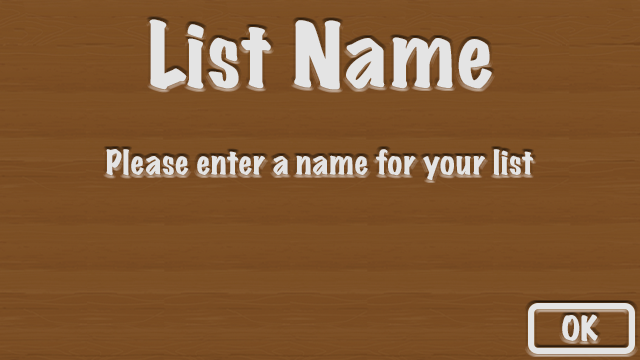
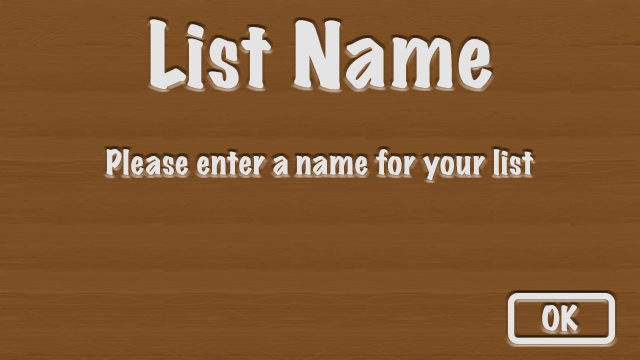
delete pop up

Changed region(s): [[0.7812, 0.7944, 1.0, 1.0]]

diff --git a/src/view/DeletePopupStyle.css b/src/view/DeletePopupStyle.css
@@ -1,0 +1,16 @@
+AnchorPane {
+    -fx-background-image:url('DeletePopup.png');
+}
+
+
+Button {
+    -fx-background-color: Transparent;
+    -fx-background-radius: 22;
+    -fx-border-color: Transparent;
+    -fx-border-width: 2;
+    -fx-border-radius: 22;
+}
+
+Button:hover {
+    -fx-border-color: #e4e4e4;
+}

diff --git a/src/controller/CustomAddViewController.java b/src/controller/CustomAddViewController.java
@@ -3,12 +3,16 @@ package controller;
 import javafx.collections.ObservableList;
 import javafx.event.ActionEvent;
 import javafx.fxml.FXML;
+import javafx.fxml.FXMLLoader;
 import javafx.fxml.Initializable;
+import javafx.scene.Scene;
 import javafx.scene.control.*;
 import javafx.scene.layout.Region;
 import model.CustomCollection;
 import model.ModeDirector;
 
+import java.io.File;
+import java.io.IOException;
 import java.net.URL;
 import java.util.ArrayList;
 import java.util.Optional;
@@ -181,7 +185,11 @@ public class CustomAddViewController extends AbstractController implements Initi
         _first = 0;
         _second = 0;
 
-        pushPopup("EnterNamePopup", true);
+        try {
+            pushPopup(new Scene(FXMLLoader.load(getClass().getResource(File.separator + "view" + File.separator + "EnterNamePopup.fxml"))), true);
+        } catch (IOException e) {
+            e.printStackTrace();
+        }
     }
 
     @FXML
@@ -398,7 +406,11 @@ public class CustomAddViewController extends AbstractController implements Initi
         setFonts(plus, 85, minus, 85, multiply, 85, divide, 85, 4);
         setFonts(questionsAddedLbl, 23, equationLbl,36, null, -1, null, -1, 2);
 
-        pushPopup("ParentsHelpPopup", false);
+        try {
+            pushPopup(new Scene(FXMLLoader.load(getClass().getResource(File.separator + "view" + File.separator + "ParentsHelpPopup.fxml"))), false);
+        } catch (IOException e) {
+            e.printStackTrace();
+        }
 
     }
 }

diff --git a/src/controller/CustomViewController.java b/src/controller/CustomViewController.java
@@ -2,7 +2,9 @@ package controller;
 
 import com.sun.javafx.scene.control.skin.VirtualFlow;
 import javafx.fxml.FXML;
+import javafx.fxml.FXMLLoader;
 import javafx.fxml.Initializable;
+import javafx.scene.Scene;
 import javafx.scene.control.Button;
 import javafx.scene.control.Cell;
 import javafx.scene.control.ListCell;
@@ -14,6 +16,7 @@ import model.ModeDirector;
 import java.io.File;
 import java.io.FileInputStream;
 import java.io.FileNotFoundException;
+import java.io.IOException;
 import java.net.URL;
 import java.util.ResourceBundle;
 
@@ -44,9 +47,13 @@ public class CustomViewController extends AbstractController implements Initiali
     }
 
     public void delete() {
-        _customCollection.deleteCustomList(listView.getSelectionModel().getSelectedItem().toString());
-        listView.getItems().remove(listView.getSelectionModel().getSelectedItem().toString());
-        listView.getItems().sorted();
+        FXMLLoader loader = new FXMLLoader(getClass().getResource(File.separator + "view" + File.separator + "DeletePopup.fxml"));
+        loader.setController(new DeletePopupController(listView.getItems(), listView.getSelectionModel().getSelectedItem()));
+        try {
+            pushPopup(new Scene(loader.load()), true);
+        } catch (IOException e) {
+            e.printStackTrace();
+        }
     }
 
     @Override

diff --git a/src/controller/AbstractController.java b/src/controller/AbstractController.java
@@ -3,6 +3,7 @@ package controller;
 import javafx.animation.FadeTransition;
 import javafx.animation.ScaleTransition;
 import javafx.animation.Timeline;
+import javafx.collections.ObservableList;
 import javafx.fxml.FXMLLoader;
 import javafx.scene.Parent;
 import javafx.scene.Scene;
@@ -42,7 +43,7 @@ public abstract class AbstractController {
         }
     }
 
-    protected void pushPopup(String name, boolean transitions) {
+    protected void pushPopup(Scene scene, boolean transitions) {
         _popupPaneContainer.setVisible(true);
         _overlay.setVisible(true);
 
@@ -70,13 +71,8 @@ public abstract class AbstractController {
             _overlay.setOpacity(0.6);
             _popupPaneContainer.setOpacity(1);
         }
-        try {
-            FXMLLoader loader = new FXMLLoader(getClass().getResource(File.separator + "view" + File.separator + name + ".fxml"));
-            Parent root = loader.load();
-            _popupPane.getChildren().setAll(root);
-        } catch (IOException e) {
-            e.printStackTrace();
-        }
+        _popupPane.getChildren().setAll(scene.getRoot());
+
     }
 
     protected void closePopup() {

diff --git a/src/model/CustomCollection.java b/src/model/CustomCollection.java
@@ -11,13 +11,15 @@ import java.util.Set;
 
 public class CustomCollection extends NumberCollection {
 
+    private static CustomCollection _customCollection;
     private HashMap<Integer, String> _questionsMap;
     private HashMap<Integer, String> _questionAnswersMap;
     private String _currentMap;
     private ArrayList<String> _currentItems = new ArrayList<>();
     private HashMap<String, HashMap<Integer, String>> _storedQuestions = new HashMap<>();
     private HashMap<String, HashMap<Integer, String>> _storedAnswers = new HashMap<>();
-    private static CustomCollection _customCollection;
+    private boolean delete;
+
 
     //Singleton Constructor
     public static CustomCollection instance() {
@@ -178,6 +180,14 @@ public class CustomCollection extends NumberCollection {
             writeToFile(s, -1, true);
         }
         _currentItems = new ArrayList<>();
+    }
+
+    public void setDelete(boolean bool) {
+        delete = bool;
+    }
+
+    public boolean getDelete() {
+        return delete;
     }
 
 }

diff --git a/src/controller/DeletePopupController.java b/src/controller/DeletePopupController.java
@@ -1,0 +1,29 @@
+package controller;
+
+import javafx.collections.ObservableList;
+import model.CustomCollection;
+
+public class DeletePopupController extends AbstractController  {
+    private static CustomCollection _customCollection = CustomCollection.instance();
+    private ObservableList _list;
+    private Object _item;
+
+    public DeletePopupController(ObservableList list, Object item) {
+        _list = list;
+        _item = item;
+    }
+
+    public DeletePopupController() {
+
+    }
+
+    public void delete() {
+        closePopup();
+        _list.remove(_item);
+        _customCollection.deleteCustomList(_item.toString());
+    }
+
+    public void cancel() {
+        closePopup();
+    }
+}

diff --git a/src/controller/MenuViewController.java b/src/controller/MenuViewController.java
@@ -43,7 +43,11 @@ public class MenuViewController extends AbstractController implements Initializa
     }
 
     public void settings() {
-        pushPopup("SettingsPopup", true);
+        try {
+            pushPopup(new Scene(FXMLLoader.load(getClass().getResource(File.separator + "view" + File.separator + "SettingsPopup.fxml"))), true);
+        } catch (IOException e) {
+            e.printStackTrace();
+        }
     }
 
     @Override

diff --git a/src/controller/EnterNamePopupController.java b/src/controller/EnterNamePopupController.java
@@ -26,6 +26,7 @@ public class EnterNamePopupController extends AbstractController implements Init
             _customModel.configureAdd(textField.getText());
             closePopup();
             popChild();
+            pushChild("CustomView");
         }
         error.setVisible(true);
     }
